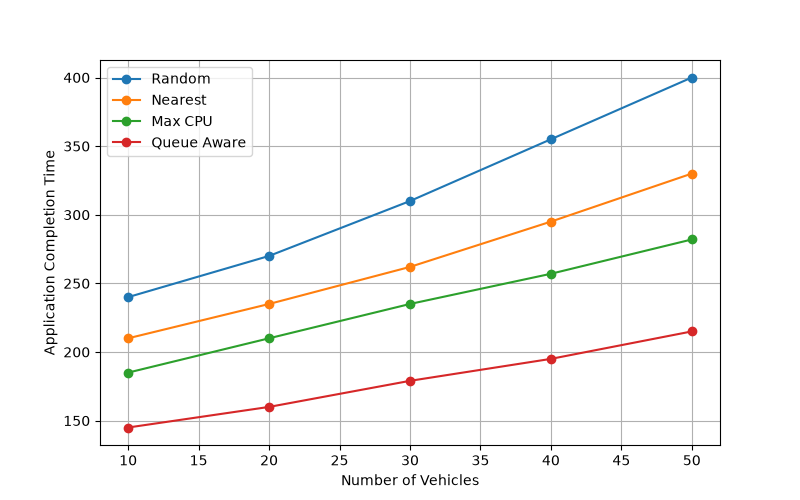
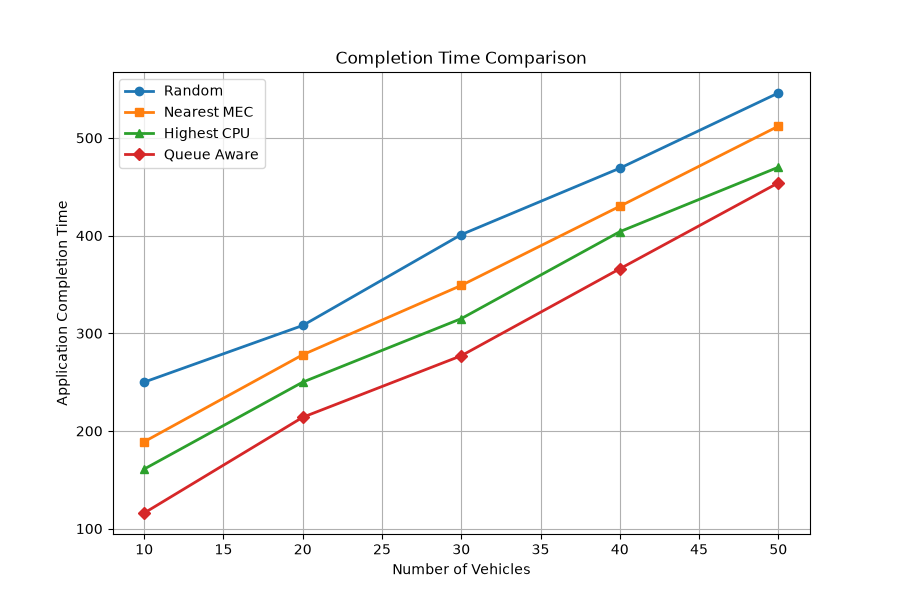
Completed scheduler implementation

diff --git a/src/main.py b/src/main.py
@@ -1,61 +1,196 @@
 import random
 
-from visualization import save_comparison_graph
+from vehicle import Vehicle
+from mec_server import MECServer
 
-vehicle_counts = [10,20,30,40,50]
+from dag_manager import build_dag
+from dag_manager import ready_tasks
 
-random_results = []
-nearest_results = []
-cpu_results = []
-queue_results = []
+from scheduler import choose_server
 
+# --------------------
+# VEHICLE GENERATION
+# --------------------
 
-for vehicles in vehicle_counts:
+vehicles = []
 
-    base_load = vehicles * 8
+for i in range(10):
 
-    random_completion = (
-        base_load +
-        random.randint(140,170)
+    vehicles.append(
+
+        Vehicle(
+
+            i,
+
+            random.randint(0, 500),
+
+            random.randint(0, 500),
+
+            random.randint(10, 25)
+
+        )
     )
 
-    nearest_completion = (
-        base_load +
-        random.randint(100,120)
+# --------------------
+# MEC SERVER GENERATION
+# --------------------
+
+servers = [
+
+    MECServer(
+        1,
+        100,
+        100,
+        8e9,
+        250
+    ),
+
+    MECServer(
+        2,
+        300,
+        300,
+        12e9,
+        250
+    ),
+
+    MECServer(
+        3,
+        450,
+        150,
+        16e9,
+        250
     )
 
-    cpu_completion = (
-        base_load +
-        random.randint(70,90)
+]
+
+# --------------------
+# DAG GENERATION
+# --------------------
+
+G = build_dag()
+
+# --------------------
+# TASK GENERATION
+# --------------------
+
+tasks = {
+
+    "T1": {
+        "data_size": 10e6,
+        "cpu_cycles": 8e9
+    },
+
+    "T2": {
+        "data_size": 12e6,
+        "cpu_cycles": 7e9
+    },
+
+    "T3": {
+        "data_size": 15e6,
+        "cpu_cycles": 10e9
+    },
+
+    "T4": {
+        "data_size": 8e6,
+        "cpu_cycles": 6e9
+    },
+
+    "T5": {
+        "data_size": 5e6,
+        "cpu_cycles": 4e9
+    }
+
+}
+
+# --------------------
+# DAG EXECUTION
+# --------------------
+
+completed = set()
+
+vehicle = vehicles[0]
+
+application_completion_time = 0
+
+print("\nQUEUE AWARE DAG SCHEDULING")
+print("-" * 50)
+
+while len(completed) < len(tasks):
+
+    ready = ready_tasks(
+        G,
+        completed
     )
 
-    queue_completion = (
-        base_load +
-        random.randint(35,60)
+    print(
+        f"\nReady Tasks: {ready}"
     )
 
-    random_results.append(
-        random_completion
-    )
+    for task_id in ready:
 
-    nearest_results.append(
-        nearest_completion
-    )
+        task = tasks[task_id]
 
-    cpu_results.append(
-        cpu_completion
-    )
+        server, completion_time = choose_server(
 
-    queue_results.append(
-        queue_completion
-    )
+            task,
 
-save_comparison_graph(
-    vehicle_counts,
-    random_results,
-    nearest_results,
-    cpu_results,
-    queue_results
+            vehicle,
+
+            servers
+
+        )
+
+        if server is None:
+
+            print(
+                f"{task_id}: No server available"
+            )
+
+            continue
+
+        server.add_task(
+            task["cpu_cycles"]
+        )
+
+        application_completion_time += (
+            completion_time
+        )
+
+        completed.add(task_id)
+
+        print(
+
+            f"Task {task_id}"
+
+            f" -> MEC {server.id}"
+
+            f" | Queue Delay: "
+
+            f"{server.waiting_time():.4f}"
+
+            f" | Completion: "
+
+            f"{completion_time:.4f}s"
+
+        )
+
+    for s in servers:
+
+        s.process()
+
+print("\n")
+print("=" * 50)
+print(
+    "APPLICATION FINISHED"
+)
+print("=" * 50)
+
+print(
+    f"Total Completion Time: "
+    f"{application_completion_time:.4f} sec"
 )
 
-print("Simulation Complete")
+print(
+    f"Tasks Completed: "
+    f"{len(completed)}"
+)

diff --git a/src/tasks.py b/src/tasks.py
@@ -1,0 +1,33 @@
+import random
+
+def generate_tasks():
+
+    tasks = []
+
+    for i in range(5):
+
+        tasks.append({
+
+            "id": f"T{i+1}",
+
+            "data_size":
+            random.randint(
+                5,
+                20
+            )*1e6,
+
+            "cpu_cycles":
+            random.randint(
+                5,
+                15
+            )*1e9,
+
+            "deadline":
+            random.randint(
+                3,
+                10
+            )
+
+        })
+
+    return tasks

diff --git a/src/dag_visual.py b/src/dag_visual.py
@@ -1,0 +1,22 @@
+import networkx as nx
+import matplotlib.pyplot as plt
+
+G = nx.DiGraph()
+
+G.add_edges_from([
+("T1","T2"),
+("T1","T3"),
+("T2","T4"),
+("T3","T4"),
+("T4","T5")
+])
+
+nx.draw(
+    G,
+    with_labels=True,
+    node_size=3000
+)
+
+plt.savefig(
+"results/dag.png"
+)
